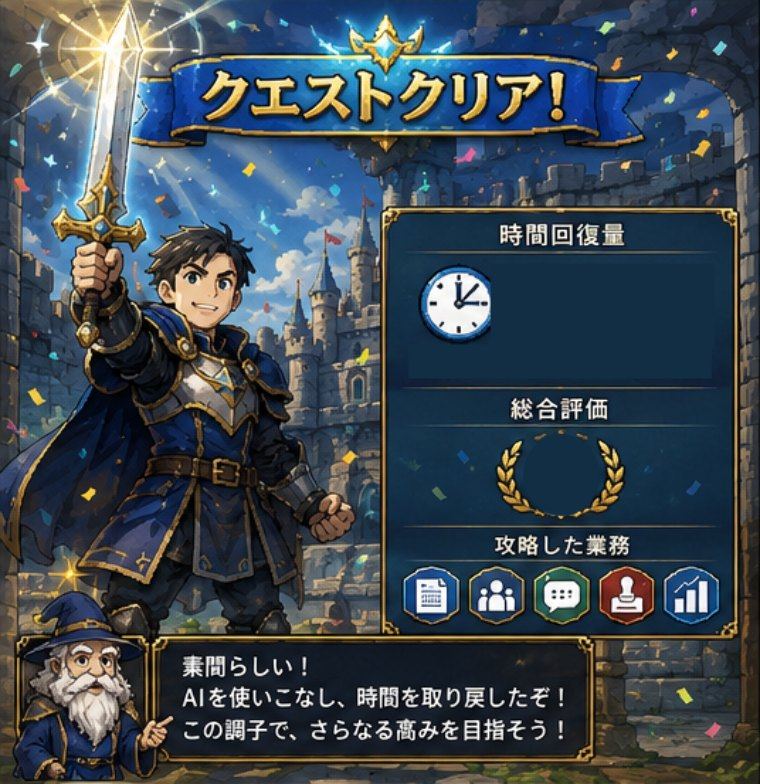
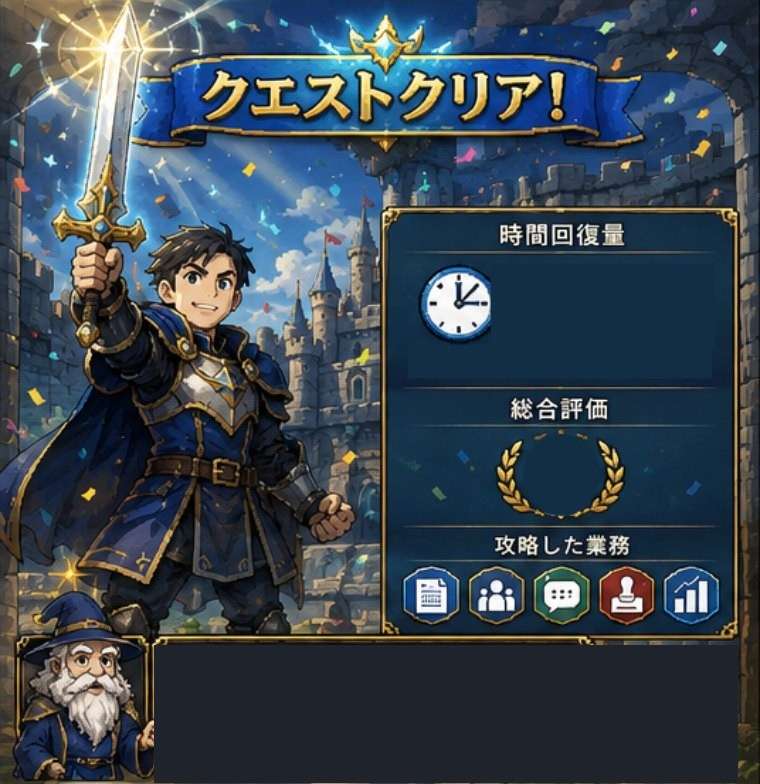
誤字修正とランク別セリフの動的化：魔法使いのコメントを診断結果に連動
結果画面の魔法使いのセリフに誤字（「素間らしい」→正しくは「素晴らしい」）
があるとの指摘を受けた。この文言は挿絵に焼き込まれた静止画テキストのため、
単純な文字修正ができない。また「すべてのランクで一律に『素晴らしい』は
おかしい」という点も踏まえ、時間・総合評価・ゲージと同様にセリフ部分も
マスクしてHTMLで重ねる方式に変更した。

- 吹き出し内側の領域を色ベースで自動検出し、テキストのみを背景色で塗り潰し
- スコアから算出するS/A/B/C/Dランクごとに、3行のセリフを個別に用意
  （どのランクもポジティブな表現のみ。低ランクでも卑下しない文言にした）
- 文字サイズはコンテナ相対単位（cqi）で指定し、画面幅が変わっても吹き出し
  内に収まることを確認（S/C/D各ランク、デスクトップ幅・360px幅で検証）

Changed region(s): [[0.1816, 0.7959, 0.9684, 1.0]]

diff --git a/script.js b/script.js
@@ -607,13 +607,29 @@
     else achievement = "TIME ARCHITECT";
 
     // 総合評価ランク（クエストクリア画面の S/A/B/C/D）
-    // TIME RECOVERY SCORE をそのまま段位に変換する
+    // TIME RECOVERY SCORE をそのまま段位に変換する。魔法使いのセリフもランクに応じて変化させる
+    // （どのランクでも「素晴らしい」と一律にせず、かつネガティブな表現は使わない）
     const RANKS = [
-      { rank: "S", min: 80, label: "完全攻略" },
-      { rank: "A", min: 65, label: "大勝利" },
-      { rank: "B", min: 50, label: "勝利" },
-      { rank: "C", min: 35, label: "善戦" },
-      { rank: "D", min: 0,  label: "討伐開始" },
+      {
+        rank: "S", min: 80, label: "完全攻略",
+        comment: ["素晴らしい！お見事だ！", "AIを完全に使いこなし、大きく時間を取り戻したな！", "その調子で、部門全体に広げていこう！"],
+      },
+      {
+        rank: "A", min: 65, label: "大勝利",
+        comment: ["大したものだ！", "AIをうまく使いこなし、しっかり時間を取り戻したぞ！", "この調子で、さらなる高みを目指そう！"],
+      },
+      {
+        rank: "B", min: 50, label: "勝利",
+        comment: ["よくやった！", "AIを使いこなし、時間を取り戻したぞ！", "次はもう一工程、AIに任せてみよう！"],
+      },
+      {
+        rank: "C", min: 35, label: "善戦",
+        comment: ["まずは一歩前進だ！", "AIに任せられる工程が、少し見えてきたな！", "焦らず、できるところから試してみよう！"],
+      },
+      {
+        rank: "D", min: 0, label: "討伐開始",
+        comment: ["ここからが始まりだ！", "時間を取り戻す旅は、まだ始まったばかりだぞ！", "小さな一歩が、大きな変化につながる！"],
+      },
     ];
     const rankInfo = RANKS.find((r) => score >= r.min);
 
@@ -632,7 +648,7 @@
     return {
       gf, businessResults, ranking, totalCurrent, totalAfter, totalRecovered,
       level, levelLabel: LEVEL_LABELS[level], score, achievement,
-      rank: rankInfo.rank, rankLabel: rankInfo.label,
+      rank: rankInfo.rank, rankLabel: rankInfo.label, wizardComment: rankInfo.comment,
       totalManagementTime, shareOfTotal, statusReveal,
     };
   }
@@ -1201,8 +1217,9 @@ ${(() => {
     const wrap = el(`<div class="screen"></div>`);
     root.appendChild(wrap);
 
-    // --- QUEST CLEAR 挿絵（時間・総合評価は実際の診断結果を重ねて表示）---
+    // --- QUEST CLEAR 挿絵（時間・総合評価・魔法使いのセリフは実際の診断結果を重ねて表示）---
     const barPct = clamp(r.score, 4, 100);
+    const wizardLines = r.wizardComment.map((line) => `<p>${line}</p>`).join("");
     wrap.appendChild(el(`
       <div class="quest-clear">
         <img class="quest-clear-img" src="assets/quest-clear.jpg"
@@ -1210,6 +1227,7 @@ ${(() => {
         <div class="qc-time">+${minutesToHM(weeklyRecover)}</div>
         <div class="qc-bar"><span style="width:${barPct}%"></span></div>
         <div class="qc-rank">${r.rank}</div>
+        <div class="qc-wizard">${wizardLines}</div>
       </div>
     `));
 

diff --git a/style.css b/style.css
@@ -323,9 +323,23 @@ p.lead{color:var(--text-soft); font-size:15px; margin:0 0 20px;}
 }
 @keyframes qcRank{ from{opacity:0; transform:scale(.3);} to{opacity:1; transform:scale(1);} }
 
+/* 魔法使いのセリフ（ランクに応じて内容が変わる） */
+.qc-wizard{
+  position:absolute; left:20.26%; top:82.27%; width:76.84%; height:17.6%;
+  display:flex; flex-direction:column; align-items:flex-start; justify-content:center;
+  padding:1.6cqi 2.6cqi; box-sizing:border-box; gap:0.2em;
+  color:#eef2ff; animation:qcFadeIn .5s ease both .15s;
+}
+.qc-wizard p{
+  margin:0; font-weight:700; line-height:1.32;
+  font-size:12px; font-size:3.05cqi;
+  text-shadow:0 1px 2px rgba(0,0,0,.6);
+}
+@keyframes qcFadeIn{ from{opacity:0; transform:translateY(4px);} to{opacity:1; transform:translateY(0);} }
+
 /* 演出を控えたい環境では、値が確実に見える静止状態にする */
 @media (prefers-reduced-motion: reduce){
-  .qc-bar span, .qc-rank, .boss-hp-fill{animation:none;}
+  .qc-bar span, .qc-rank, .qc-wizard, .boss-hp-fill{animation:none;}
 }
 .result-hero .quest-complete{font-size:12px; font-weight:800; letter-spacing:.18em; color:#8fb0ff; margin-bottom:10px;}
 .result-hero .big-number{font-size:44px; font-weight:900; letter-spacing:-.01em; background:var(--ai-grad); -webkit-background-clip:text; background-clip:text; color:transparent;}

diff --git a/README.md b/README.md
@@ -45,11 +45,14 @@ RPG調の描き下ろし挿絵を使用しています。
 | 5業務エンブレム | MISSION 1の業務カード（外周を透過処理） |
 | クエストクリア | RESULT画面の最上部 |
 
-クエストクリアの挿絵は、元画像に焼き込まれていた「+2時間」「S」「ゲージ」を書き出し時に背景色で塗り潰し、**実際の診断結果をHTMLで重ねて表示**しています。値の位置は画像に対する％指定、文字サイズはコンテナ相対単位（`cqi`）なので、画面幅が変わってもスロット内に収まります。
+クエストクリアの挿絵は、元画像に焼き込まれていた「+2時間」「S」「ゲージ」「魔法使いのセリフ」を書き出し時に背景色で塗り潰し、**実際の診断結果をHTMLで重ねて表示**しています。値の位置は画像に対する％指定、文字サイズはコンテナ相対単位（`cqi`）なので、画面幅が変わってもスロット内に収まります。
 
 - 時間回復量：週あたりの削減時間（例 `+4時間4分`）
 - 総合評価：TIME RECOVERY SCORE を S/A/B/C/D に変換（S:80以上／A:65／B:50／C:35／D:35未満）
 - ゲージ：スコアと同じ割合で伸びる
+- 魔法使いのセリフ：ランクに応じて3行のコメントが変化（`script.js` の `RANKS` 参照）。
+  どのランクでも一律に「素晴らしい」とはせず、かつネガティブな表現は使わないことを
+  条件に、S〜Dそれぞれに異なる前向きなセリフを用意している
 
 敵は架空のモンスターではなく、**実在する業務そのもの**です。これを「タイムイーター（時間を喰らう魔物）」と総称し、業務カードとして提示します（例：週報 = WEEKLY REPORT、会議資料 = MEETING MAKER）。呼称と動詞（討伐・撃破・BOSS）でクエストらしさを出しつつ、カードの中身は実際の業務名・頻度・削減時間のままにすることで、業務リアリティを損なわない設計にしています。
 
